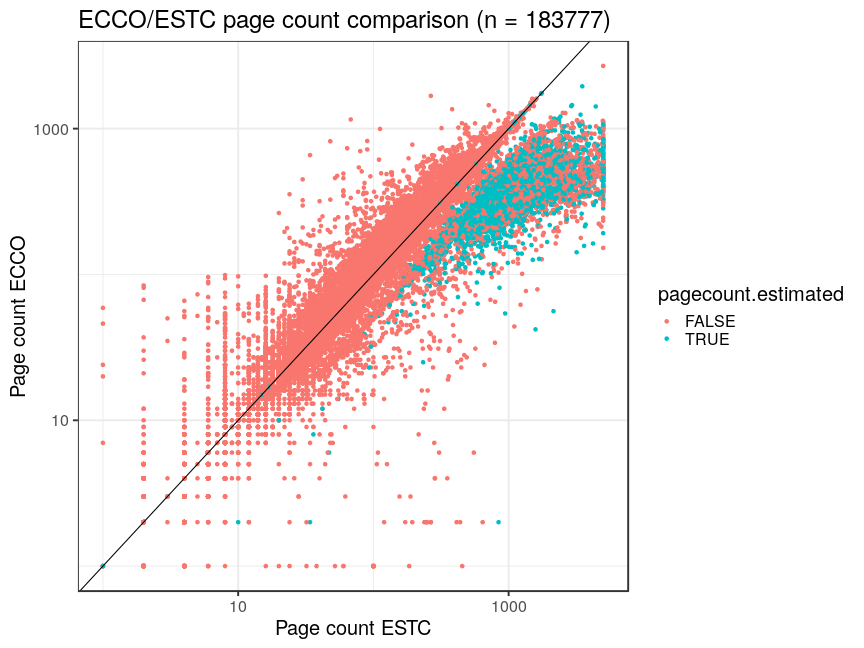
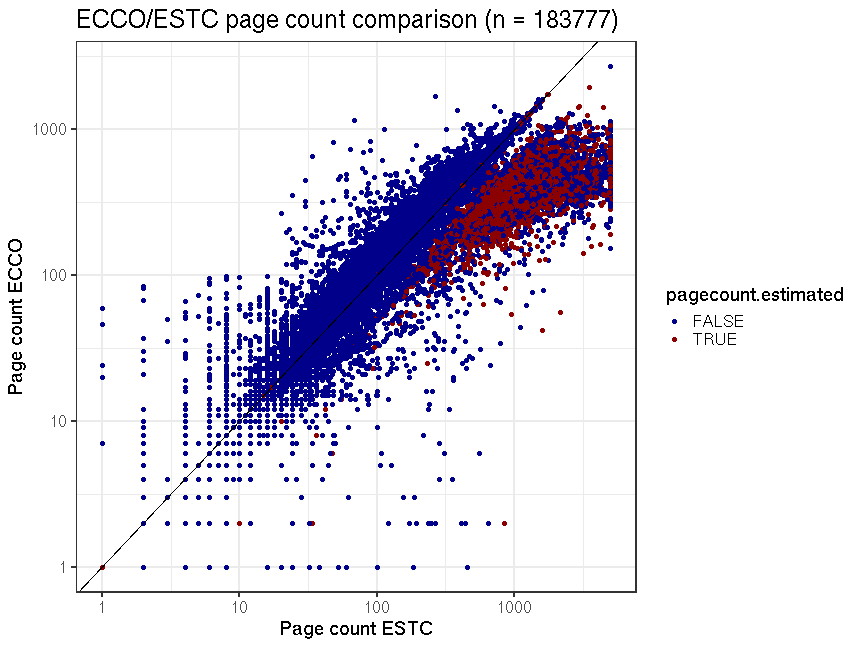
ok

diff --git a/inst/examples/pagecounts.md b/inst/examples/pagecounts.md
@@ -1,7 +1,7 @@
 ---
 title: "Page count summary"
 author: "Leo Lahti / Computational History Group"
-date: "2018-06-21"
+date: "2019-06-08"
 output: markdown_document
 ---
 
@@ -9,18 +9,27 @@ output: markdown_document
 ## ESTC/ECCO comparison
 
 
-```
-## Error in gzfile(file, "rb"): cannot open the connection
-```
 
 There are 207613 ECCO documents and 207613 have an ESTCID. Some of the ECCO entries refer to the same ESTCID; 206911 ECCO documents have a direct match in ESTC. The number of unique ECCO documents that have ESTC ID  is 184327 and 99.7% of these have a match in ESTC.
 
 Total page count for the matched ESTC documents is 97.6% of the total page count over the same ECCO documents. This quantifies the correspondence between ESTC and ECCO.
 
+The Spearman correlation between the ESTC and ECCO page counts is 0.99. This includes also the augmented page count information that is based on estimates.
+
+
 Comparison between the page counts available in ESTC and ECCO helps to quantify the accuracy our automated page count cleaning and estimation procedure. Some ESTC page counts are missing in the original data and have been augmented based on predefined estimates for [single volume](mean_pagecounts_singlevol.csv), [multi-volume](mean_pagecounts_multivol.csv) and [issues](mean_pagecounts_issue.csv), calculated from those documents where original page count info is available. In the ESTC/ECCO comparison, where pagecounts are available for both data sets, 4.38% of the pagecounts are based on estimates; pagecount for 0 ESTC documents has been replaced or augmented from ECCO, improving the correlation.
 
 
 <img src="figure/ecco2-1.png" title="plot of chunk ecco2" alt="plot of chunk ecco2" width="500px" />
+
+
+
+
+
+
+Comparison without highlighting specific works. Showing the density of the points as well.
+
+<img src="figure/ecco3-1.png" title="plot of chunk ecco3" alt="plot of chunk ecco3" width="500px" />
 
 
 
